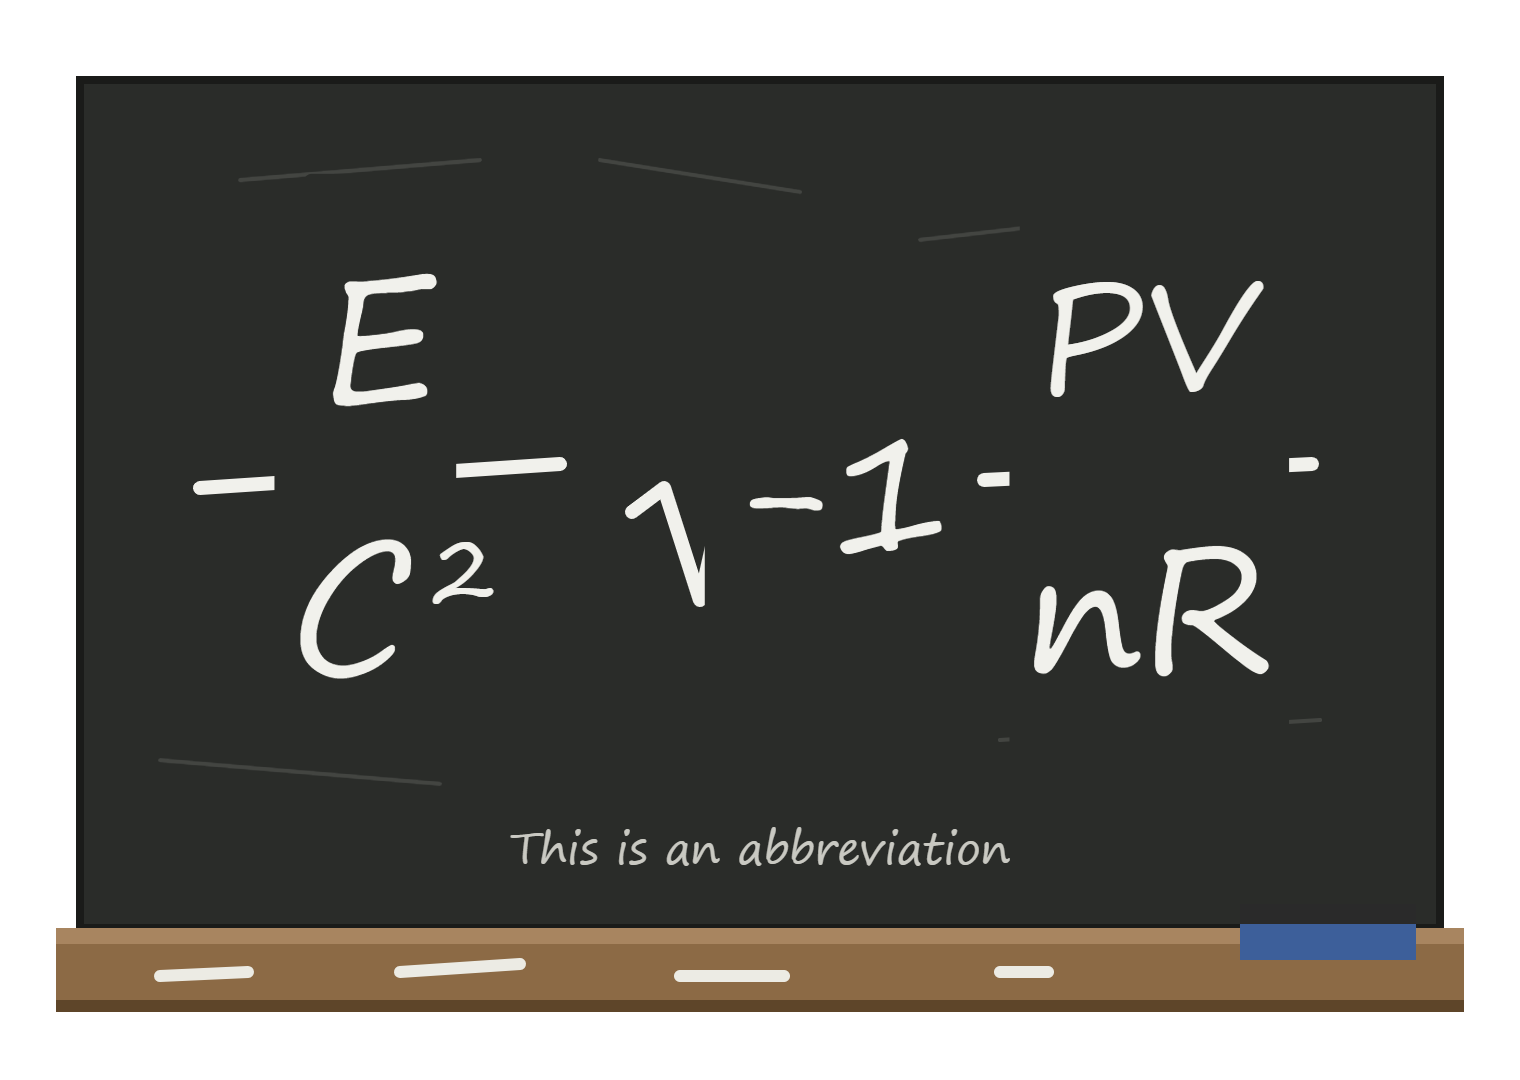
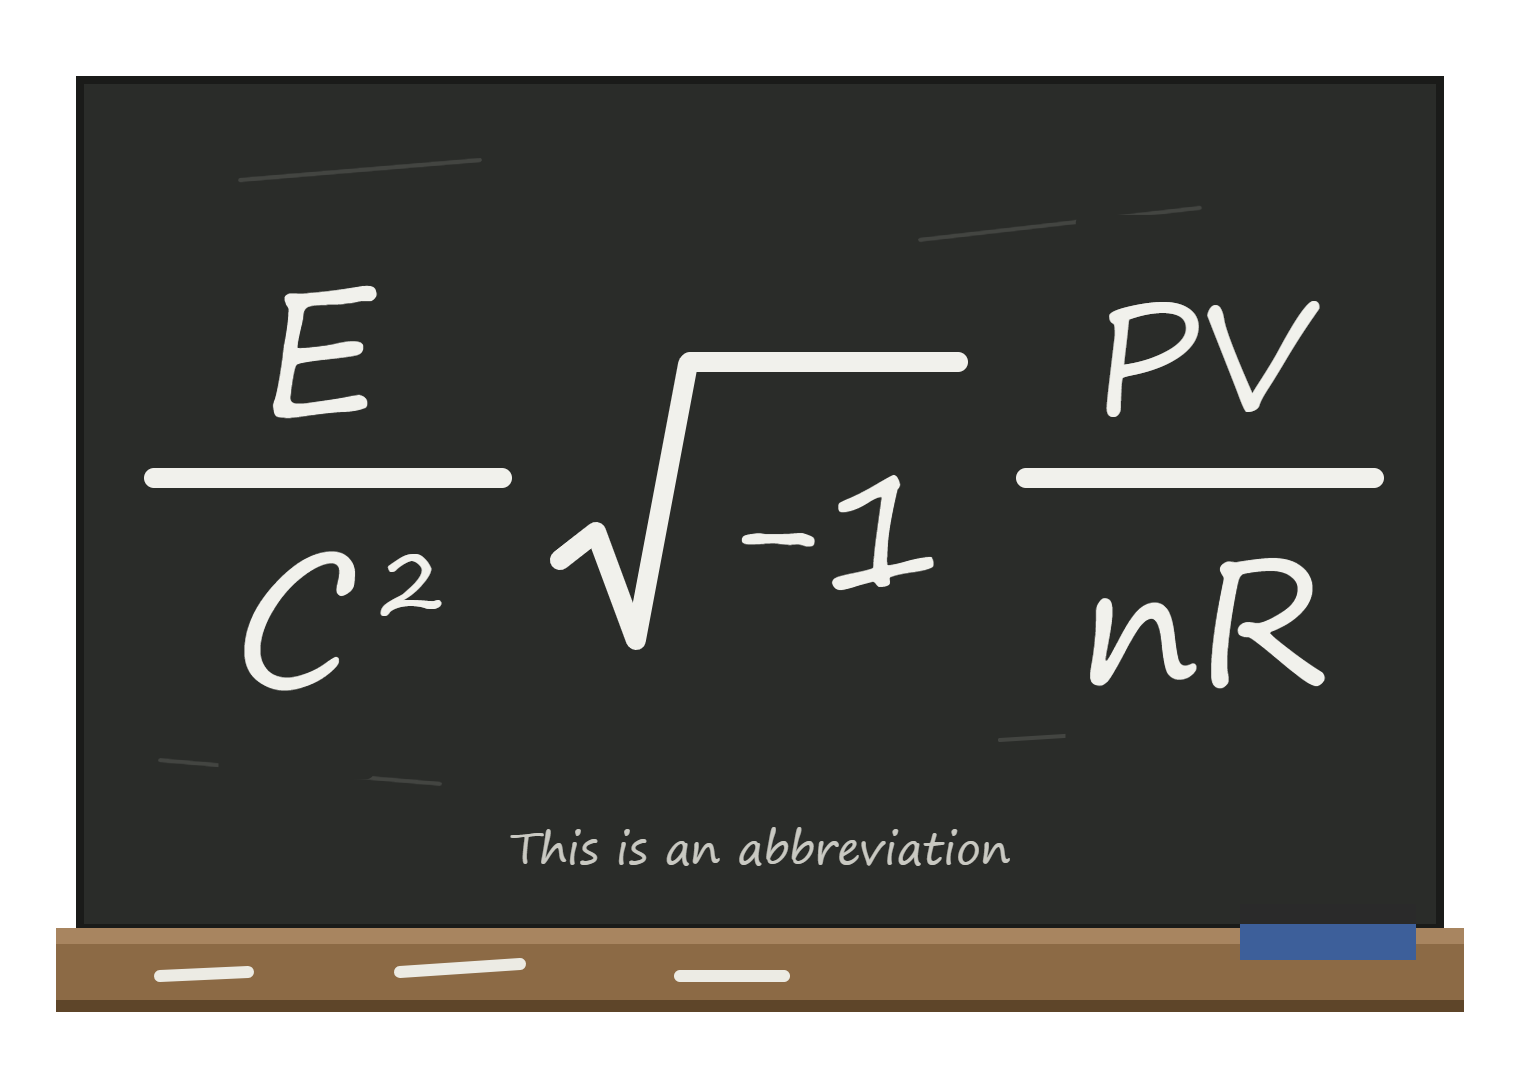
Add files via upload

diff --git a/templates/index.html b/templates/index.html
@@ -1,6 +1,7 @@
 <!doctype html>
 <meta name="viewport" content="width=device-width, initial-scale=1">
 <title>Picture Saying</title>
+<link rel="icon" href="{{ url_for('static', filename='picture_saying.ico') }}" sizes="any">
 <style>
 body{font-family:system-ui;max-width:480px;margin:0 auto;padding:16px;text-align:center}
 img{width:100%;border-radius:12px;display:none}

diff --git a/templates/previous_answers.html b/templates/previous_answers.html
@@ -1,6 +1,7 @@
 <!doctype html>
 <meta name="viewport" content="width=device-width, initial-scale=1">
 <title>Picture Saying</title>
+<link rel="icon" href="{{ url_for('static', filename='picture_saying.ico') }}" sizes="any">
 <style>
     body {
         font-family: sans-serif;

diff --git a/app.py b/app.py
@@ -34,7 +34,7 @@ PUZZLES = { # Server date is used
     "2026-11-11": {"image": "2026-11-11.png", "answer": "For instance"},
     "2026-11-14": {"image": "2026-11-14.png", "answer": "Fall in line"},
     "2026-11-15": {"image": "2026-11-15.png", "answer": "one step forward two steps back", "input-hints": ["What do we say when you progress then regress?"]},
-    "2026-11-16": {"image": "2026-11-16.png", "answer": "MIT", "input-hints": ["Relates to physics formulas and a school", "Where did Howard Wolowitz go to school?"]},
+    "2026-11-16": {"image": "2026-11-16.png", "answer": "MIT", "input-hints": ["Relates to formulas and a school", "Which school did Howard Wolowitz go to?"]},
     "2026-11-17": {"image": "2026-11-17.png", "answer": "Raining cats and dogs"},
     "2026-11-18": {"image": "2026-11-18.png", "answer": "Piece of cake"},
     "2026-11-19": {"image": "2026-11-19.png", "answer": "A watched pot never boils", "input-hints": ["Two things are happening to the pot", "The pot is being observed so it doesnt?"]},
@@ -50,7 +50,7 @@ PUZZLES = { # Server date is used
     "2026-11-29": {"image": "2026-11-29.png", "answer": "Elton John"},
     "2026-11-30": {"image": "2026-11-30.png", "answer": "Barking up the wrong tree"},
     "2026-12-01": {"image": "2026-12-01.png", "answer": "Cold shoulder"},
-    "2026-12-02": {"image": "2026-12-02.png", "answer": "The Nile River", "input-hints": ["What is the player doing?", "The player is in denial. Last card on a poker table?"]},
+    "2026-12-02": {"image": "2026-12-02.png", "answer": "The Nile River", "input-hints": ["The player is in ...?", "Last card on a poker table?"]},
     "2026-12-03": {"image": "2026-12-03.png", "answer": "Daniel Radcliffe", "input-hints": ["What is Dan doing?", "I was once a young wizard"]},
     "2026-12-04": {"image": "2026-12-04.png", "answer": "When days are dark friends are few"},
 }
